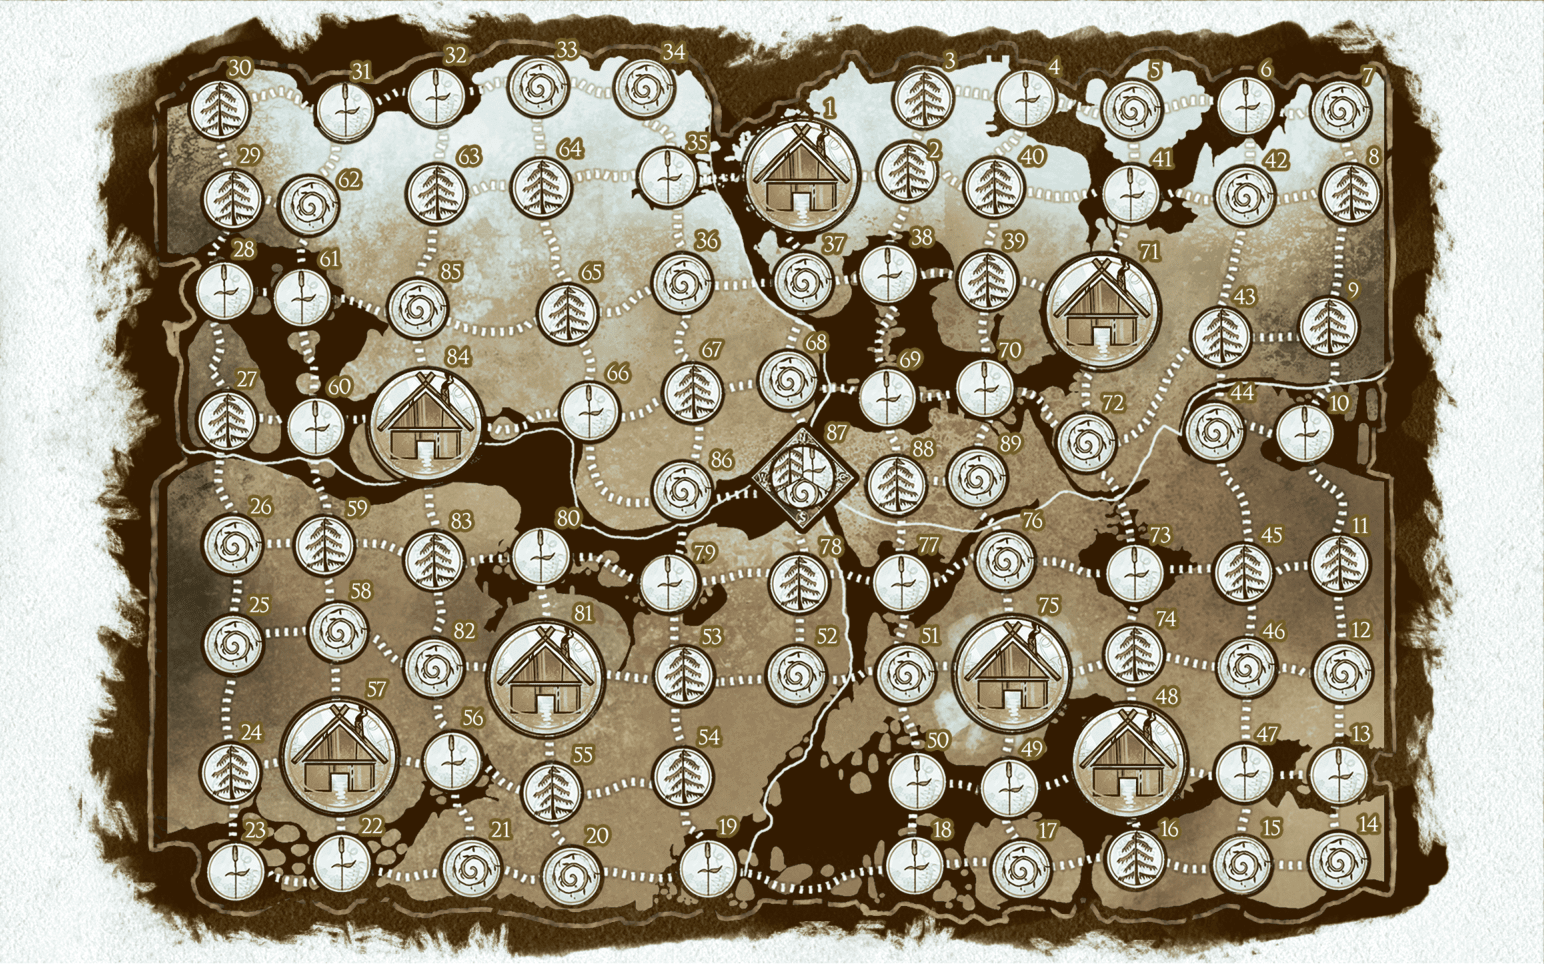
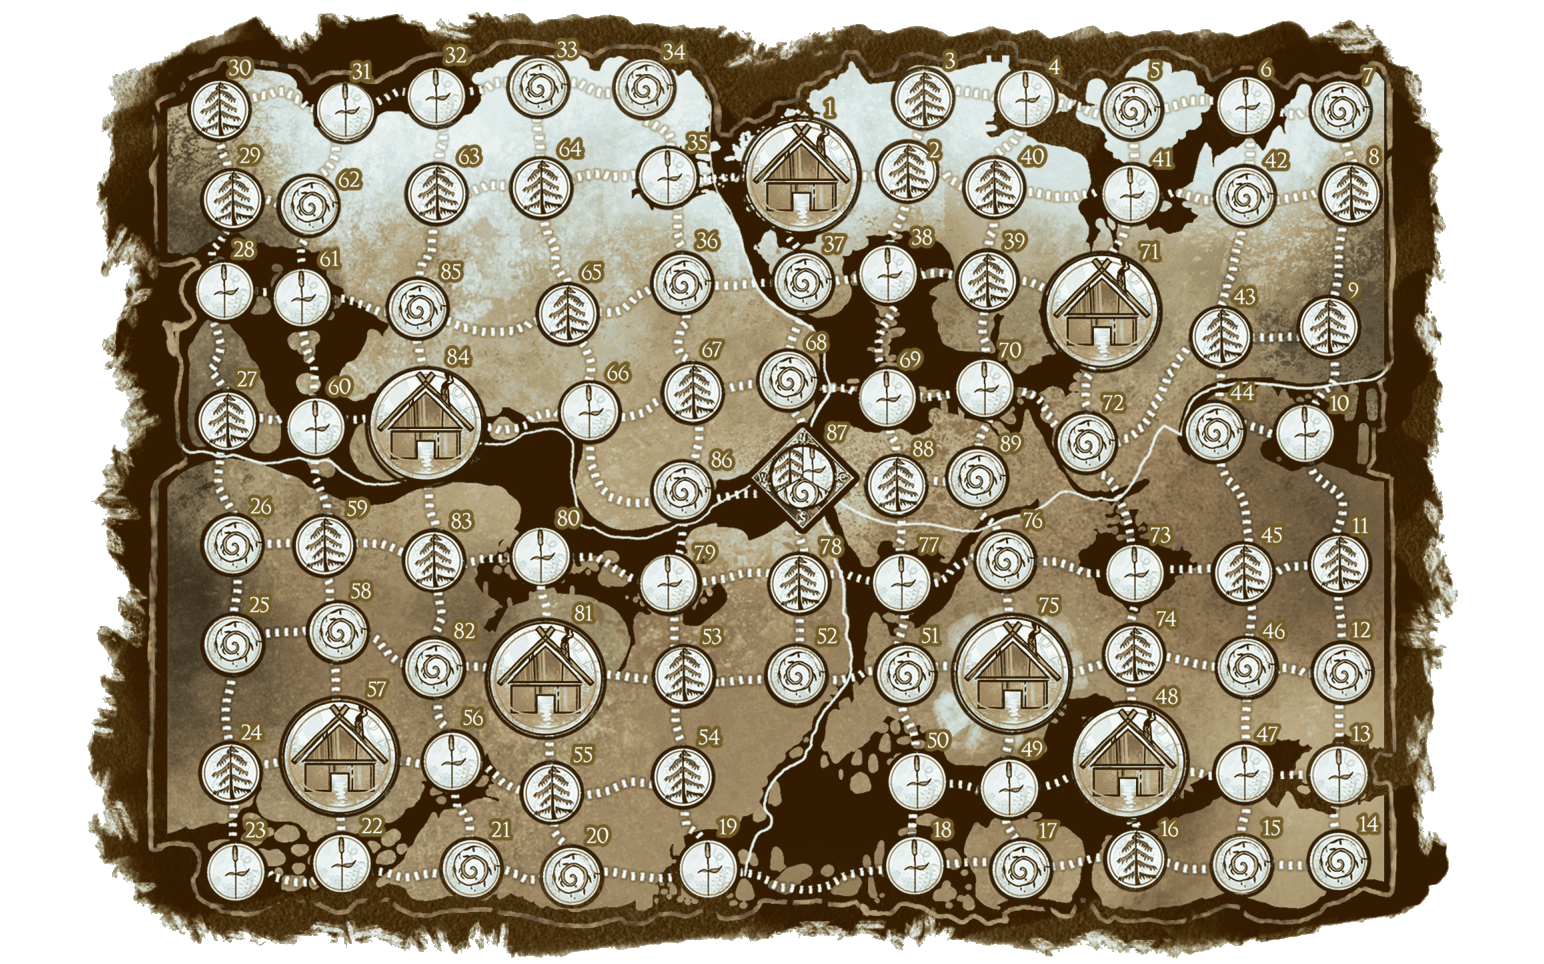
refactoring needed

diff --git a/src/components/organisms/GameMap/GameMap.tsx b/src/components/organisms/GameMap/GameMap.tsx
@@ -5,7 +5,6 @@ import {ILocationPath, MapType} from "../../../util/interfaces";
 import classnames from "classnames";
 import {useEffect, useRef, useState} from "react";
 import {RefreshButton} from "../../molecules/RefreshButton/RefreshButton";
-import {MapLocation} from "../../molecules/MapLocation/MapLocation";
 import {MapLocationList} from "../MapLocationList/MapLocationList";
 import {
     addLocation,
@@ -13,8 +12,6 @@ import {
     isLocationExists,
     isLocationLast, removeLocation
 } from "../../helpers/locationPath";
-import {MapLocationLinkList} from "../MapLocationLinkList/MapLocationLinkList";
-import {Connection} from "@jsplumb/browser-ui";
 
 export interface GameMapProps {
     className?: string;
@@ -161,6 +158,8 @@ export const GameMap = (props: GameMapProps) => {
         setPathGraph(graphInstance);
     }, [locationPath])
 
+    useEffect(() => console.log('map rendered'));
+
     // useEffect(() => {
     //     console.log('path changed');
     //     if (!pathGraph) {
@@ -171,7 +170,7 @@ export const GameMap = (props: GameMapProps) => {
     // }, [locationPath]);
 
 
-    const loaded = data !== undefined && pathGraph;
+    const loaded = data !== undefined && ref;
 
     return (
         <div className={classnames(className, S.container)} ref={ref}>
@@ -185,12 +184,12 @@ export const GameMap = (props: GameMapProps) => {
                         locationItems={data.items}
                         ratio={ratio}
                     />
-                    <MapLocationLinkList
-                        pathGraph={pathGraph}
-                        locationPath={locationPath}
-                        locationItems={data.items}
-                        ratio={ratio}
-                    />
+                    {/*<MapLocationLinkList*/}
+                    {/*    pathGraph={pathGraph}*/}
+                    {/*    locationPath={locationPath}*/}
+                    {/*    locationItems={data.items}*/}
+                    {/*    ratio={ratio}*/}
+                    {/*/>*/}
                 </>
             }
         </div>

diff --git a/src/components/molecules/MapLocation/MapLocation.tsx b/src/components/molecules/MapLocation/MapLocation.tsx
@@ -1,4 +1,4 @@
-import React, {CSSProperties, useState} from "react";
+import React, {CSSProperties, useEffect, useState} from "react";
 
 import S from "./MapLocation.module.scss";
 import classnames from "classnames";
@@ -14,27 +14,33 @@ export interface MapLocationProps {
     top: number;
     left: number;
     size: number;
+    onConnect?: CallableFunction;
+    onRemove?: CallableFunction;
 }
 
-export const MapLocation = (props: MapLocationProps) => {
+export const MapLocation = React.forwardRef((props: MapLocationProps, ref: React.ForwardedRef<any>) => {
     const {
         className,
         isFirst,
         isLast,
         visitsCount,
         onVisit,
+        onConnect = (_: any) => _,
+        onRemove = (_: any) => _,
         ratio,
         size,
         top,
         left
     } = props;
 
-    const stateClassName = isLast ? S.location_last :
-        isFirst ? S.location_first : visitsCount > 0 && S.location_selected;
+    const isSelected = visitsCount > 0;
+
+    const stateClassName = isLast ? S.last :
+        isFirst ? S.first :
+            isSelected && S.selected;
 
     const classList = [
-        className,
-        S.location,
+        S.background,
         [stateClassName]
     ];
 
@@ -48,11 +54,19 @@ export const MapLocation = (props: MapLocationProps) => {
         left: k(left)
     };
 
+    useEffect(() => {
+        onConnect();
+        return () => onRemove();
+    })
+
     return <div
-        className={classnames(classList)}
         onClick={() => onVisit()}
         style={style}
+        className={classnames(className, S.container)}
     >
-        {visitsCount > 1 && <span className={S.counter}>{visitsCount}</span>}
+        <div className={S.center} ref={ref}/>
+        <div className={classnames(classList)}>
+            {visitsCount > 1 && <span className={S.counter}>{visitsCount}</span>}
+        </div>
     </div>
-}
+});

diff --git a/src/components/organisms/MapLocationList/MapLocationList.tsx b/src/components/organisms/MapLocationList/MapLocationList.tsx
@@ -4,6 +4,7 @@ import S from "../GameMap/GameMap.module.scss";
 import {ILocationPath} from "../../../util/interfaces";
 import {getLocationVisitsCount, isLocationFirst, isLocationLast} from "../../helpers/locationPath";
 import classnames from "classnames";
+import {useEffect} from "react";
 
 export interface MapLocationListProps {
     locationItems: MapLocationItem[];
@@ -24,11 +25,16 @@ export const MapLocationList = (props: MapLocationListProps) => {
     const isLast = (item: MapLocationItem) => isLocationLast(locationPath, item);
     const getVisitsCount = (item: MapLocationItem) => getLocationVisitsCount(locationPath, item);
 
+    const onRemove = () => {
+        console.log('location removed');
+    }
+    // useEffect()
     return <>
         {locationItems.map((item, key) =>
             <MapLocation
                 {...item}
                 onVisit={() => onVisit(item)}
+                onRemove={() => onRemove()}
                 isFirst={isFirst(item)}
                 isLast={isLast(item)}
                 visitsCount={getVisitsCount(item)}

diff --git a/src/components/molecules/MapLocation/MapLocation.module.scss b/src/components/molecules/MapLocation/MapLocation.module.scss
@@ -1,13 +1,22 @@
-.location {
+.container {
     position: absolute;
     z-index: 3;
     cursor: pointer;
-    border-radius: 50%;
     text-align: center;
     display: flex;
     justify-content: center;
     align-items: center;
     padding: 0.05em 0 0 0;
+}
+
+.background {
+    position: absolute;
+    z-index: 1;
+    width: 100%;
+    height: 100%;
+    left: 0;
+    top: 0;
+    border-radius: 50%;
     &:hover:after {
         content: '';
         display: block;
@@ -30,16 +39,20 @@
     color: #fff;
 }
 
-.location_selected {
+.center {
+    position: absolute;
+}
+
+.selected {
     background: #00a34496;
     box-shadow: 0 0 30px #00a34496;
 }
 
-.location_first {
+.first {
     background: #a3000096;
     box-shadow: 0 0 30px #a30000;
 }
-.location_last {
+.last {
     background: #00677896;
     box-shadow: 0 0 30px #006778;
     &:before {

diff --git a/src/index.css b/src/index.css
@@ -25,11 +25,10 @@
   -webkit-tap-highlight-color: transparent;
 }
 
-.jtk-connector {
-  z-index: 4;
-}
+.jtk-connector {}
 .jtk-connector path {
-  stroke: #ffffff30;
-  filter: drop-shadow(0 0 10px white);
+  stroke: #ffffff60;
+  /*filter: drop-shadow(0 0 10px white);*/
+  filter: drop-shadow(0 0 10px orange);
   stroke-width:0.7vw;
 }
